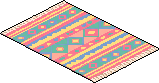
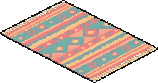
[아지트] 기본 방 소품 12개를 새로 받은 고화질 그림으로 · 소품 보기 창은 고화질판
- 가르시아가 Gemini로 다시 받은 ★소품 그림 4장(sian-ref/azit-hq/star-1~4, 원본 그대로)을
  _dev/azit-hq-items.py로 처리: 흰 바탕·바닥 그림자 띠 지우기 → 고화질판 icons/azit-hq/*.webp
  → 방 그림 icons/azit-room/*.png(11/25 전 그림 칸 크기·좌우 그대로, sian-ref/azit-hq/old-room 기준)
- 바꾼 방 그림: 강아지 소파·가게 방석·러그·밥그릇·장난감 바구니·뼈다귀·공·화분·등급 액자·
  금색 액자·강아지 초상화·오늘의 한 장 게시판 + 사진 액자·단짝 액자(속 그림 칸을 찾아 비움)
- 트로피(벽 선반 없음)·가랜드(짧은 반원)는 방 그림 그대로, 고화질판만 받아 둠
- azit.html: 바꾼 그림 주소 ?v=5, 소품 보기 창은 고화질판이 있으면 그걸로 크게(부드럽게)

Claude-Session: https://claude.ai/code/session_01D364GF868k3HTded8WiX4b

Changed region(s): [[0.0, 0.0, 1.0, 1.0]]

diff --git a/azit.html b/azit.html
@@ -427,7 +427,10 @@
   var REDO_V3 = ['neon_chihuahua', 'bag_dispenser', 'leash_hook', 'grooming_basket', 'cafe_cup', 'carrot_plush', 'keyhook_rail', 'flag_stand',
     'picnic_mat', 'lamp_stand', 'lamp_stand_on', 'postcard_paw'];
   var REDO_V4 = ['bag_dispenser', 'grooming_basket', 'stroller', 'stroller_win'];   // 개모차 = 빈 개모차(타기, 11/24)   // 같은 날 생활용품 시트로 한 번 더 바꾼 것(벽걸이 통·도구가 진한 바구니)
-  function picV(n) { return REDO_V4.indexOf(n) >= 0 ? 4 : REDO_V3.indexOf(n) >= 0 ? 3 : /^room(_|$)/.test(n) ? 5 : LETTER_V2.indexOf(n.replace(/_L$/, '')) >= 0 ? 2 : 1; }   // 방 그림 v5 = 크림 발바닥 방·선반 모서리 고침·왼쪽 토끼 귀 입구를 벽으로(11/24, _dev/azit-close-door.py)
+  // 11/25 기본 방 소품을 고화질로 다시 받은 그림으로 줄여 바꾼 것(_dev/azit-hq-items.py — 원본 sian-ref/azit-hq, 고화질판 icons/azit-hq) — v5
+  var REDO_V5 = ['sofa_bed', 'cushion_cafe_beige', 'rug_pattern', 'feeder_wood_2bowl', 'basket_blue_carrot', 'toy_bone', 'ball_yellow', 'plant_pot',
+    'frame_jelly_pink', 'frame_gold', 'frame_photo', 'frame_dog', 'frame_pal', 'board_postcard'];
+  function picV(n) { return REDO_V5.indexOf(n) >= 0 ? 5 : REDO_V4.indexOf(n) >= 0 ? 4 : REDO_V3.indexOf(n) >= 0 ? 3 : /^room(_|$)/.test(n) ? 5 : LETTER_V2.indexOf(n.replace(/_L$/, '')) >= 0 ? 2 : 1; }   // 방 그림 v5 = 크림 발바닥 방·선반 모서리 고침·왼쪽 토끼 귀 입구를 벽으로(11/24, _dev/azit-close-door.py)
   var picsReady = Promise.all(picNames.map(function (n) { return loadImg(IMG + n + '.png?v=' + picV(n)).then(function (im) { if (im) pics[n] = im; }); }));
   function pic(n) { return pics[n] || null; }
   // 벽 소품은 그려진 벽 방향(face)과 다른 벽에 걸면 좌우로 뒤집는다
@@ -1522,6 +1525,9 @@
   // 소품 보기 창(11/25) — 큰 도트 그림 · 이름 · 표(얻는 법 · 지금 · 놓는 곳 · 우리 개는) · 버튼([던지기] · [우리 개 보내기] · [닫기])
   var KIND_TXT = { play: '가지고 놀아요', eat: '냠냠·킁킁 맛봐요', rest: '올라가서 쉬어요', read: '글씨를 읽어요', look: '구경해요', walk: '산책 가자고 졸라요' };   // 반응 칸(11/25 가르시아 문구)
   function hideCard() { $('itemcard').hidden = true; tipFor = null; }
+  // 소품 보기 창에서 큰 그림을 고화질판으로 보여 줄 소품(받은 고화질 원본에서 자른 것 — 트로피·가랜드는 방 그림과 모양이 달라 뺌)
+  var HQ_ITEMS = ['sofa_bed', 'cushion_cafe_beige', 'rug_pattern', 'feeder_wood_2bowl', 'basket_blue_carrot', 'toy_bone', 'ball_yellow', 'plant_pot',
+    'frame_jelly_pink', 'frame_gold', 'frame_dog', 'board_postcard', 'carrot_plush', 'donut_cushion', 'stroller'];
   function showTip(s) {
     var it = AZ.byId(AZ.ITEMS, s.id);
     if (!it) return;
@@ -1533,6 +1539,20 @@
     var dpr = window.devicePixelRatio || 1, pc = $('ic-pic');
     pc.width = Math.round(iw * sc * dpr); pc.height = Math.round(ih * sc * dpr); pc.style.width = (iw * sc) + 'px'; pc.style.height = (ih * sc) + 'px';
     var pg = pc.getContext('2d'); pg.imageSmoothingEnabled = false; pg.clearRect(0, 0, pc.width, pc.height); pg.drawImage(img, 0, 0, pc.width, pc.height);
+    // 고화질판이 있는 소품(11/25 — icons/azit-hq, _dev/azit-hq-items.py)은 큰 그림을 그걸로 바꿔 그린다(받는 동안은 위 점 그림).
+    // 벽 반대쪽에 걸려 뒤집힌 그림(oriented)이면 같이 뒤집는다
+    if (HQ_ITEMS.indexOf(it.spr) >= 0) {
+      var flipped = !!(it.face && img !== pic(it.spr) && img !== pic(it.spr + '_L')), hq = new Image();
+      hq.onload = function () {
+        if (tipFor !== s.id || $('itemcard').hidden) return;   // 그사이 다른 소품을 눌렀거나 닫았으면 그대로
+        var k = Math.min(100 / hq.naturalWidth, 100 / hq.naturalHeight), cw = hq.naturalWidth * k, ch = hq.naturalHeight * k;
+        pc.width = Math.round(cw * dpr); pc.height = Math.round(ch * dpr); pc.style.width = cw + 'px'; pc.style.height = ch + 'px';
+        var g2 = pc.getContext('2d'); g2.imageSmoothingEnabled = true; g2.imageSmoothingQuality = 'high'; g2.clearRect(0, 0, pc.width, pc.height);
+        if (flipped) { g2.translate(pc.width, 0); g2.scale(-1, 1); }
+        g2.drawImage(hq, 0, 0, pc.width, pc.height);
+      };
+      hq.src = 'icons/azit-hq/' + it.spr + '.webp?v=1';
+    }
     $('ic-name').textContent = it.name;
     // 표 문구(11/25 가르시아 "얻는 법: 처음부터 가지고 있어요 / 배치: 바닥, 선반에 놓을 수 있어요 · 꾹 눌러 옮겨요 / 반응: 가지고 놀아요 / 놀이: …")
     var how = h.how === '처음부터 있어요' ? '처음부터 가지고 있어요' : h.how;

diff --git a/_dev/azit-hq-items.py b/_dev/azit-hq-items.py
@@ -1,0 +1,176 @@
+# 아지트 기본 방 소품 14개(★)를 고화질로 다시 그린 것 넣기 (2026-11-25)
+#
+# 가르시아 "원본 저장소에 없는 소품들 다시 만들게" → Claude가 만든 견본(지금 그림을 흐리게 키운 2×2 칸 4장, 굵은 점을 베끼지 않게) +
+# 화풍 견본(sian-ref/azit-redo/sheet3.jpg)을 Gemini에 주고 받은 그림 넷 = sian-ref/azit-hq/star-1~4.webp(원본 그대로 보관).
+#   star-1: 강아지 소파 · 가게 방석 / 러그 · 밥그릇        star-2: 장난감 바구니 · 뼈다귀 / 공 · 화분
+#   star-3: 트로피 · 등급 액자 / 금색 액자 · 강아지 초상화  star-4: 오늘의 한 장 게시판 · 가랜드
+#
+# 하는 일(azit-redo-items.py의 자르기·색 줄이기·줄이기·테두리를 그대로 씀):
+#   1) 흰 바탕 지우기 + 바닥에 남은 옅은 푸른 회색 그림자 띠 벗기기(바깥에서부터, 진한 테두리에서 멈춤)
+#   2) 고화질판 icons/azit-hq/<그림 이름>.webp(투명 바탕, 긴 변 최대 512) — 소품 보기 창·튜토리얼처럼 크게 보여 줄 때
+#   3) 방 그림 icons/azit-room/<그림 이름>.png — 예전 방 그림(sian-ref/azit-hq/old-room, 11/25 전 것)과 같은 좌우 방향
+#      (모양을 겹쳐 보아 더 맞는 쪽)·그 크기 칸 안에 맞게 줄임. 트로피(새 그림에 벽 선반이 없음)·가랜드(모서리를 가로지르는
+#      긴 줄이 아니라 짧은 반원)는 방 그림을 그대로 둔다(고화질판만)
+#   4) 금색 액자 → 우리 개 사진 액자(frame_photo) · 강아지 초상화 → 단짝 액자(frame_pal): 속 그림 칸을 찾아(그림 색 덩어리의
+#      볼록 껍질 — 강아지·곰이 가장자리에 닿아도 칸 전체) 자홍색으로 칠한 채 같은 길로 줄인 뒤 그 자리를 알파 1(앱이 사진을
+#      그려 넣는 칸)로. 예전 azit-extra.py hollow(테두리 4점 고정)는 새 그림 테두리 두께와 달라 그림이 남거나 테두리에 구멍이 났다
+#   azit.html picV — 바꾼 그림은 주소 ?v=5(예전 그림이 캐시에 남지 않게)
+#
+# 쓰는 법(pip pillow numpy opencv-python-headless): python3 _dev/azit-hq-items.py [sian-ref/azit-hq] [icons]
+import os, sys, importlib.util
+import numpy as np
+import cv2
+from PIL import Image
+
+SRC = sys.argv[1] if len(sys.argv) > 1 else "sian-ref/azit-hq"
+ICONS = sys.argv[2] if len(sys.argv) > 2 else "icons"
+ROOM, HQ = os.path.join(ICONS, "azit-room"), os.path.join(ICONS, "azit-hq")
+REF = os.path.join(SRC, "old-room")   # 11/25 전 방 그림 — 크기·좌우 기준(다시 돌려도 같은 결과)
+here = os.path.dirname(os.path.abspath(__file__))
+
+
+def load_mod(name, file):
+    spec = importlib.util.spec_from_file_location(name, os.path.join(here, file))
+    m = importlib.util.module_from_spec(spec)
+    sys.argv, keep = [sys.argv[0]], sys.argv   # 그 파일이 sys.argv를 읽어서 잠깐 비움
+    spec.loader.exec_module(m)
+    sys.argv = keep
+    return m
+
+
+redo = load_mod("redo", "azit-redo-items.py")   # cut · quantize · outline · azfit(downscale)
+
+SHEETS = {
+    "star-1.webp": ["sofa_bed", "cushion_cafe_beige", "rug_pattern", "feeder_wood_2bowl"],
+    "star-2.webp": ["basket_blue_carrot", "toy_bone", "ball_yellow", "plant_pot"],
+    "star-3.webp": ["trophy_shelf", "frame_jelly_pink", "frame_gold", "frame_dog"],
+    "star-4.webp": ["board_postcard", "garland_bunting"],
+}
+KEEP_ROOM = {"trophy_shelf", "garland_bunting"}   # 트로피: 새 그림에 벽 선반이 없음 · 가랜드: 방 모서리를 가로지르는 긴 줄인데 새 그림은 짧은 반원 — 방에선 예전 그림
+HOLLOW = {"frame_gold": "frame_photo", "frame_dog": "frame_pal"}
+PAINT = {   # 액자 속 그림 칸의 색 — 금색 액자: 숲 그림(초록·청록·하늘) · 강아지 초상화: 크림 바탕
+    "frame_gold": lambda r, g, b: (g > r + 8) | (b > r + 20),
+    "frame_dog": lambda r, g, b: (r > 200) & (g > 185) & (b > 140) & (r - b < 80),
+}
+
+
+def boxes_of(rgb):
+    """소품 덩어리 [x, y, w, h] — 줄(가운데 높이가 가까운 것끼리) → 줄 안은 왼쪽부터"""
+    fg = (rgb.min(axis=2) < 225).astype(np.uint8)
+    fg = cv2.dilate(fg, np.ones((15, 15), np.uint8))
+    k, lab, st, cen = cv2.connectedComponentsWithStats(fg, 8)
+    cs = [(st[i][:4].tolist(), cen[i]) for i in range(1, k) if st[i][4] > 2500]
+    cs.sort(key=lambda c: c[1][1])
+    rows, cur = [], []
+    for c in cs:
+        if cur and abs(c[1][1] - np.mean([d[1][1] for d in cur])) > 180:
+            rows.append(cur); cur = []
+        cur.append(c)
+    if cur:
+        rows.append(cur)
+    return [c[0] for r in rows for c in sorted(r, key=lambda c: c[1][0])]
+
+
+def iou(a, b):
+    return (a & b).sum() / max(1, (a | b).sum())
+
+
+def facing(new_rgba, old_rgba):
+    """새 그림을 예전 그림 크기로 줄여 모양을 겹쳐 보고, 좌우를 뒤집는 편이 더 맞으면 True"""
+    h, w = old_rgba.shape[:2]
+    m = cv2.resize((new_rgba[..., 3] > 0).astype(np.uint8), (w, h), interpolation=cv2.INTER_AREA) > 0
+    o = old_rgba[..., 3] > 0
+    return iou(m[:, ::-1], o) > iou(m, o) + 0.02, iou(m, o), iou(m[:, ::-1], o)
+
+
+def crop_alpha(img):
+    ys, xs = np.nonzero(img[..., 3])
+    return img[ys.min():ys.max() + 1, xs.min():xs.max() + 1]
+
+
+def peel_shadow(img, steps=16):
+    """바닥에 남은 옅은 푸른 회색 그림자 띠(예: 195,200,216)를 바깥에 닿은 것부터 한 겹씩 벗긴다 — 진한 테두리에서 멈춤.
+    cut()은 회색 그림자(채도 16 미만)만 바탕으로 보는데 이번 그림의 그림자는 조금 푸르러서 남았다"""
+    a = img.copy()
+    rgb = a[..., :3].astype(int)
+    mx, mn = rgb.max(-1), rgb.min(-1)
+    sh = (mn > 140) & (mx - mn < 60) & (rgb[..., 2] - rgb[..., 0] >= 6)
+    n = 0
+    for _ in range(steps):
+        op = a[..., 3] > 0
+        out = np.pad(~op, 1, constant_values=True)
+        near = out[:-2, 1:-1] | out[2:, 1:-1] | out[1:-1, :-2] | out[1:-1, 2:]
+        kill = op & near & sh
+        if not kill.any():
+            break
+        a[kill] = 0
+        n += int(kill.sum())
+    return crop_alpha(a), n
+
+
+def canvas_of(img, name):
+    """액자 속 그림 칸 — 그림 색 덩어리 중 가장 큰 것의 볼록 껍질"""
+    rgb = img[..., :3].astype(int)
+    m = (PAINT[name](rgb[..., 0], rgb[..., 1], rgb[..., 2]) & (img[..., 3] > 0)).astype(np.uint8)
+    m = cv2.morphologyEx(m, cv2.MORPH_OPEN, np.ones((3, 3), np.uint8))
+    k, lab, st, _ = cv2.connectedComponentsWithStats(m, 8)
+    big = 1 + int(np.argmax(st[1:, 4]))
+    ys, xs = np.nonzero(lab == big)
+    hull = cv2.convexHull(np.column_stack([xs, ys]).astype(np.int32))
+    out = np.zeros(m.shape, np.uint8)
+    cv2.fillPoly(out, [hull], 1)
+    return (out > 0) & (img[..., 3] > 0)
+
+
+def to_room(full, f):
+    q = crop_alpha(redo.quantize(full[..., :3].copy(), (full[..., 3] > 0).astype(np.uint8)))
+    return redo.outline(redo.azfit.downscale(q, f))
+
+
+def hollowed(full, name, f, shape):
+    """속 그림 칸을 비운 방 그림 — 칸을 자홍색으로 칠해 같은 길로 줄인 뒤 자홍 자리를 알파 1로"""
+    mk = full.copy()
+    mk[canvas_of(full, name), :3] = (255, 0, 255)
+    small = to_room(mk, f)
+    assert small.shape == shape, f"{name}: 속 비운 그림 크기가 다름 {small.shape} != {shape}"
+    rgb = small[..., :3].astype(int)
+    hole = (small[..., 3] > 0) & (rgb[..., 0] > 170) & (rgb[..., 1] < 100) & (rgb[..., 2] > 170)
+    small[hole] = (0, 0, 0, 1)
+    return small, int(hole.sum())
+
+
+def main():
+    os.makedirs(HQ, exist_ok=True)
+    for fname, names in SHEETS.items():
+        rgb = np.asarray(Image.open(os.path.join(SRC, fname)).convert("RGB"))
+        bx = boxes_of(rgb)
+        assert len(bx) == len(names), f"{fname}: 소품 {len(bx)}개(기대 {len(names)})"
+        for name, box in zip(names, bx):
+            c, a, _ = redo.cut(rgb, box, holes=1500)
+            full = np.zeros(c.shape[:2] + (4,), np.uint8); full[..., :3] = c; full[..., 3] = a * 255
+            full, peeled = peel_shadow(crop_alpha(full))
+            old = crop_alpha(np.asarray(Image.open(os.path.join(REF, name + ".png")).convert("RGBA")))
+            flip, i0, i1 = facing(full, old)
+            if flip:
+                full = full[:, ::-1].copy()
+            # 고화질판
+            hq = Image.fromarray(full)
+            if max(hq.size) > 512:
+                k = 512 / max(hq.size); hq = hq.resize((round(hq.width * k), round(hq.height * k)), Image.LANCZOS)
+            hq.save(os.path.join(HQ, name + ".webp"), quality=92, method=6)
+            msg = f"{name}: 고화질 {hq.size[0]}×{hq.size[1]} · 그림자 {peeled}점 벗김 · 모양 겹침 {i0:.2f}/{i1:.2f}{' → 뒤집음' if flip else ''}"
+            if name in KEEP_ROOM:
+                print(msg + " · 방 그림은 그대로"); continue
+            # 방 그림 — 예전 그림 칸 안에(가로·세로 중 더 빡빡한 쪽에 맞춤)
+            f = min(old.shape[1] / full.shape[1], old.shape[0] / full.shape[0])
+            small = to_room(full, f)
+            Image.fromarray(small).save(os.path.join(ROOM, name + ".png"), optimize=True)
+            print(msg + f" · 방 {small.shape[1]}×{small.shape[0]}(예전 {old.shape[1]}×{old.shape[0]})")
+            if name in HOLLOW:
+                hol, n = hollowed(full, name, f, small.shape)
+                Image.fromarray(hol).save(os.path.join(ROOM, HOLLOW[name] + ".png"), optimize=True)
+                print(f"  {HOLLOW[name]}: 그려 넣을 칸 {n}점")
+
+
+if __name__ == "__main__":
+    main()

diff --git a/PROJECT_CONTEXT.md b/PROJECT_CONTEXT.md
@@ -3816,3 +3816,21 @@ Black Han Sans 굵게 뭉개짐 0곳. 실제 폰은 아직.
   화면은 헤드리스 두 사람(가짜 강아지 봄이·콩이, 가짜 서버로 같은 규칙) — 켜기 → 상대 안 켬이면 닫힘 → 둘 다 켜면 마실 → 한마디 → 상대 방명록 도착·알림 → 막기(상대 폰 방도 지워짐) → 끄고 지우기, 오류 없음.
 - SQL: 11/26 가르시아 "넣었어" — 실제 서버에서 함수 여섯 개(가짜 열쇠로 거절되는지)·표 잠김 확인.
 - **배포**: 11/26 가르시아 "배포해 줘" — main `2b0cb03`. 남은 것: 폰 두 대(아이폰·갤럭시)로 실제 서버 시험.
+
+## [아지트] 기본 방 소품 ★12개를 고화질로 다시 · 소품 보기 창은 고화질판 (2026-11-25)
+
+- 가르시아: 튜토리얼 소품을 손보며 "강아지에 비해 소품들의 도트 퀄리티가 너무 다르다" → "원본 저장소에 없는 소품들 다시 만들게 목록으로"
+  (hq notes/petwalk-azit-assets.md) → "별표 친 것부터 한 이미지에 몰아서" → Claude가 Gemini에 줄 견본(지금 그림을 흐리게 키운 2×2 칸 4장)과
+  화풍 견본을 만들어 드림 → 가르시아가 받은 그림 4장.
+- 원본 그대로 `sian-ref/azit-hq/star-1~4.webp`, 크기·좌우 기준으로 11/25 전 방 그림 `sian-ref/azit-hq/old-room/`.
+  `_dev/azit-hq-items.py`: 흰 바탕 지우기 + 바닥의 옅은 푸른 회색 그림자 띠 벗기기 → 고화질판 `icons/azit-hq/<그림 이름>.webp`(투명, 긴 변 최대 512)
+  → 방 그림 `icons/azit-room/<그림 이름>.png`(예전 그림 칸 크기·같은 좌우, 색 24개·한 점 테두리 — azit-redo-items.py 그대로).
+- 방 그림을 바꾼 것 12개: 강아지 소파·가게 방석·러그·밥그릇·장난감 바구니·뼈다귀·공·화분·등급 액자·금색 액자·강아지 초상화·오늘의 한 장 게시판
+  (`azit.html` picV ?v=5 = REDO_V5). 금색 액자 → 우리 개 사진 액자, 강아지 초상화 → 단짝 액자도 다시 — 속 그림 칸을 찾아(그림 색 덩어리의 볼록 껍질)
+  자홍으로 칠해 같은 길로 줄인 뒤 그 자리를 알파 1(사진 칸)로. 예전 hollow(테두리 4점 고정)는 새 그림에선 그림이 남고 테두리에 구멍이 났다.
+- 그대로 둔 것: 트로피(새 그림에 벽 선반이 없음)·가랜드(모서리를 가로지르는 긴 줄이 아니라 짧은 반원) — 고화질판만 받아 두고 방·소품 보기 창은 예전 그림.
+  다시 받으면 같은 스크립트로(KEEP_ROOM에서 빼기).
+- 소품 보기 창(소품을 누르면 뜨는 아래 판): 고화질판이 있는 소품(`azit.html` HQ_ITEMS — 위 12개 + 튜토리얼에서 받은 당근 인형·도넛 쿠션·유모차.
+  사진을 채우는 우리 개 사진 액자·단짝 액자는 채운 방 그림 그대로)은 큰 그림을 고화질판으로(부드럽게 줄임), 없으면 지금처럼 방 그림을 점 그대로 키움.
+- 방 크기에선 차이가 작다 — 새 그림이 조금 차분하고 어두운 색(러그·밥그릇·소파). 소품 보기 창에선 또렷하게 좋아짐.
+- 시험: 아지트 놀이 13/13 · 만남 8/8, 샘플 방·모델하우스 화면 오류 없음.
